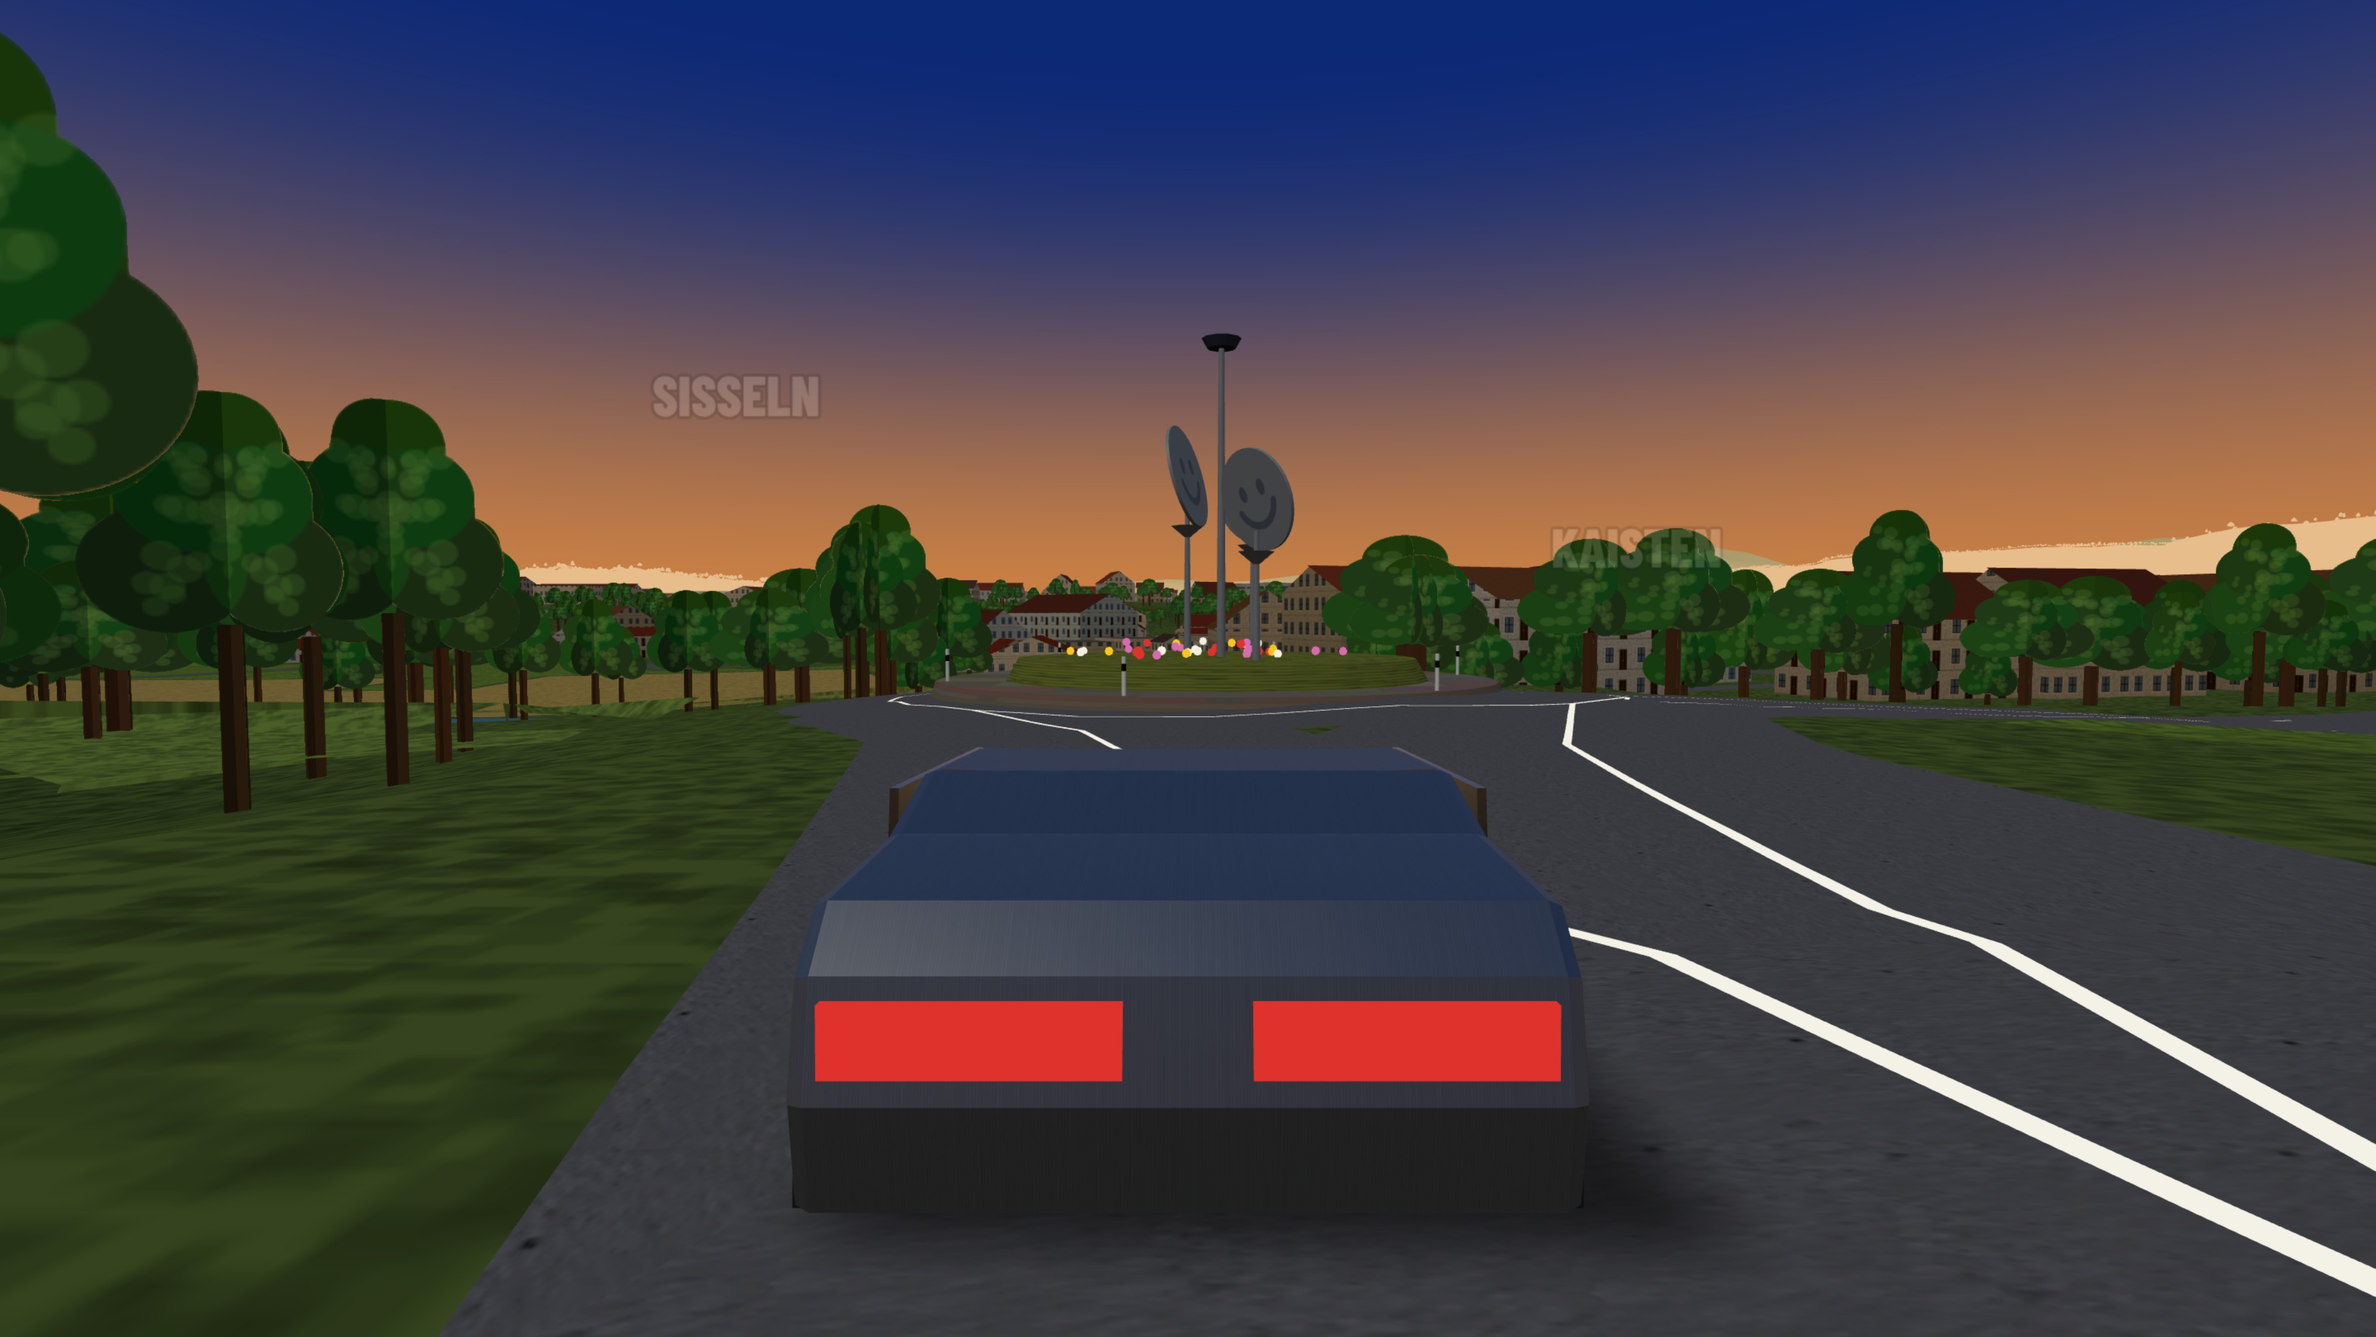
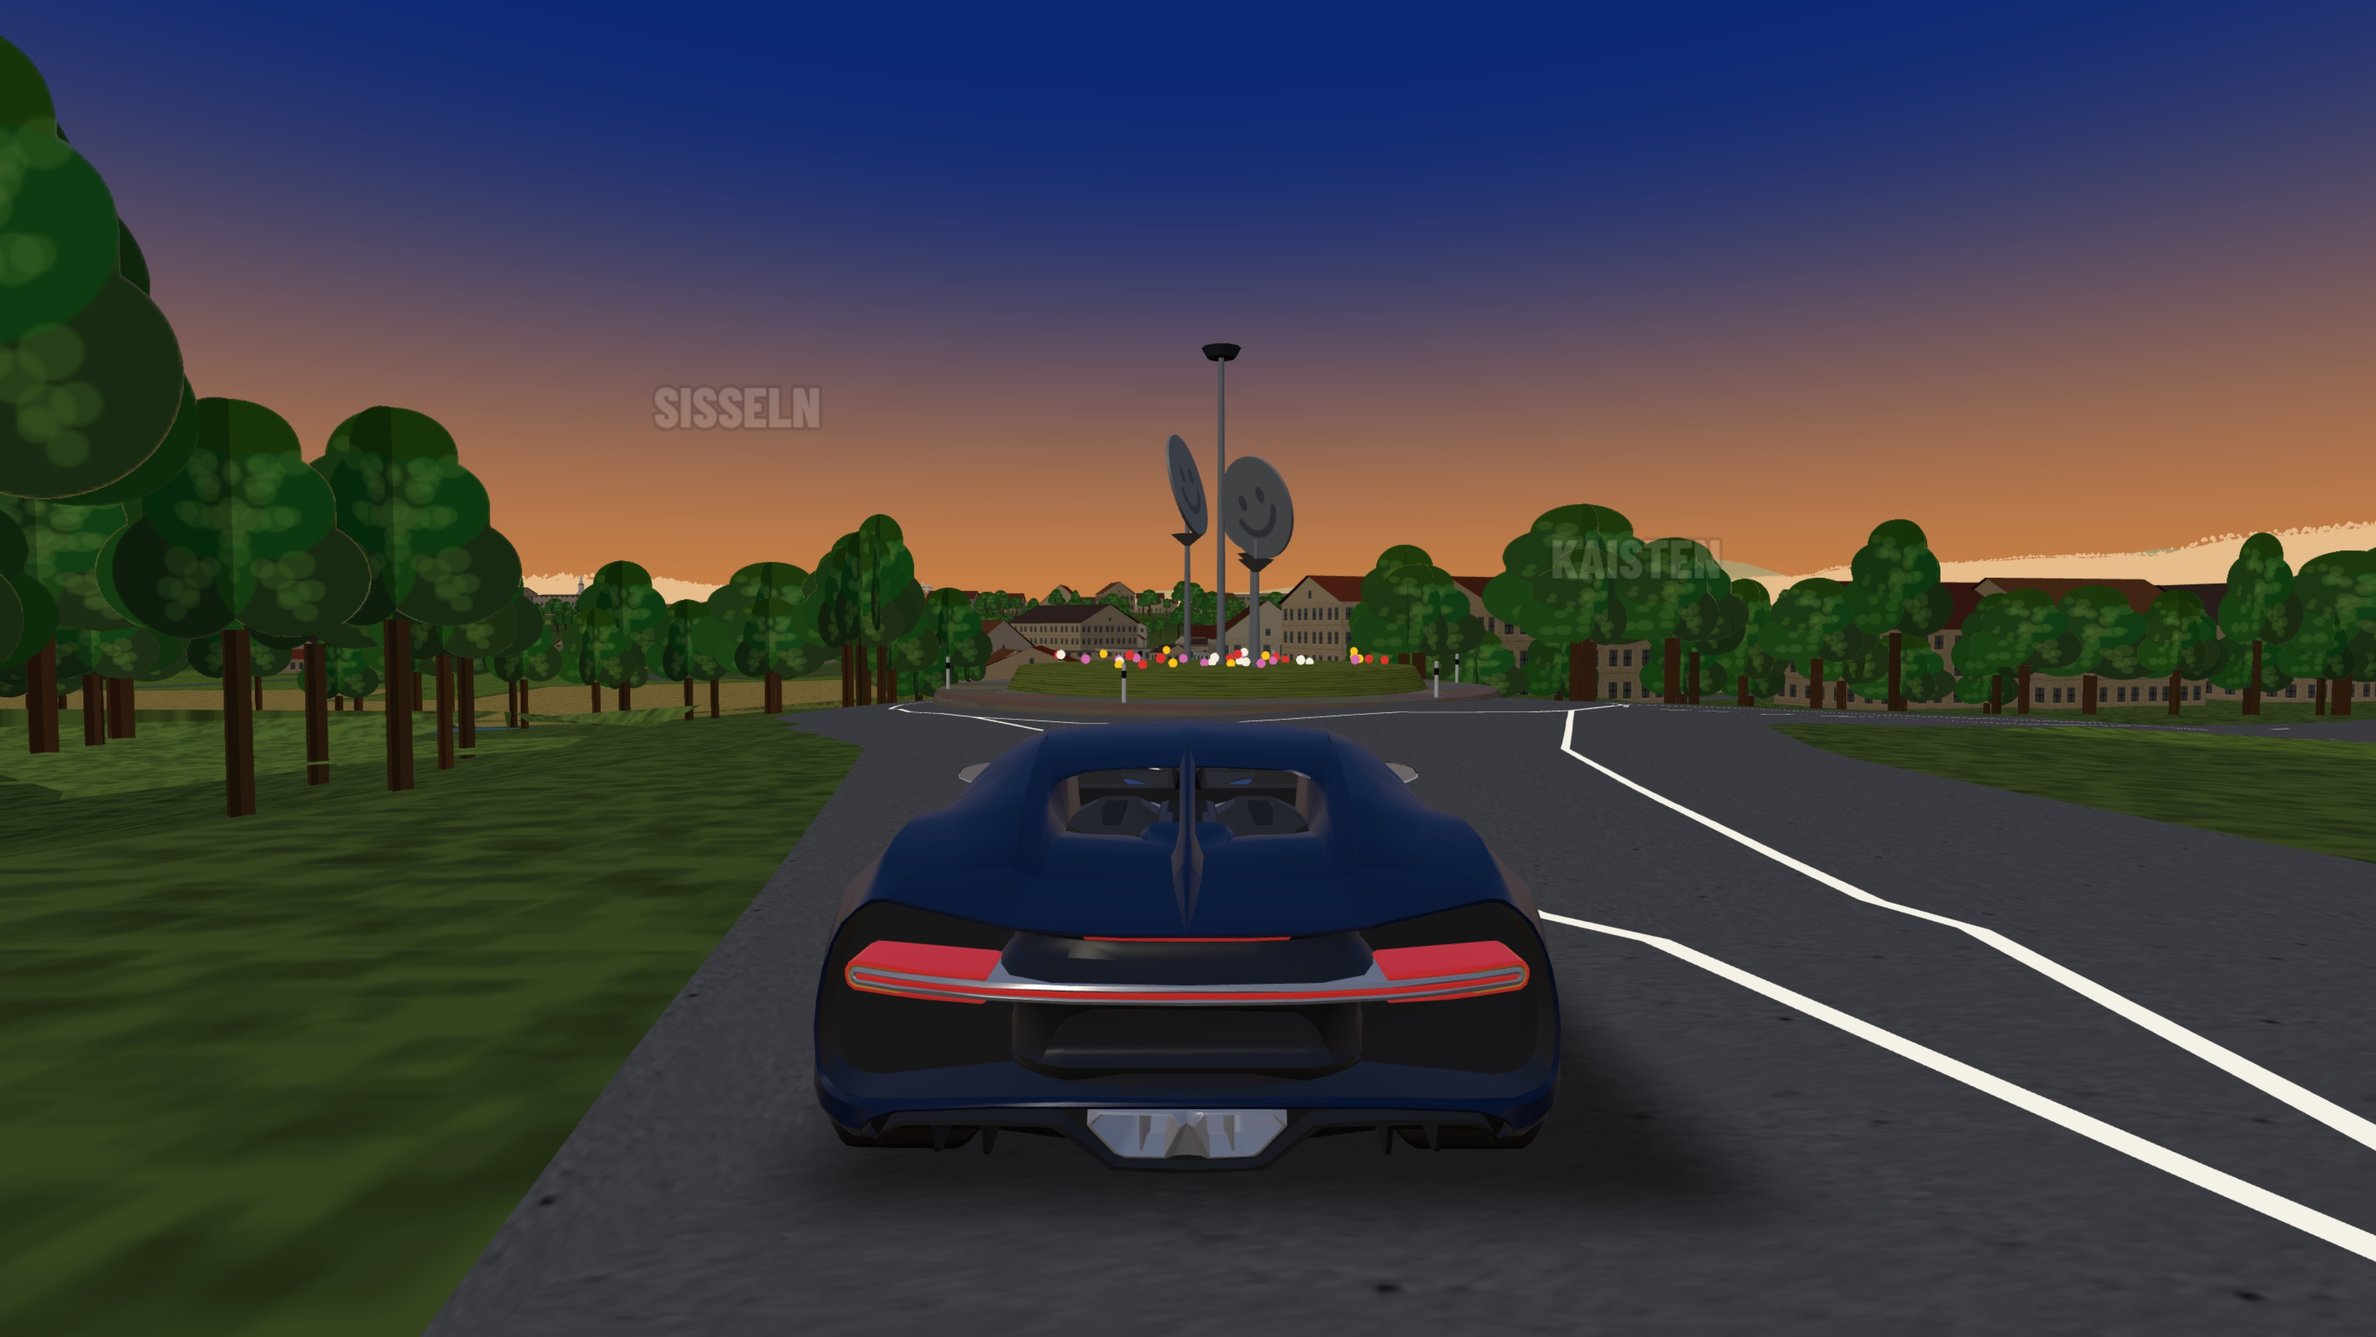
docs(gallery): closer Plattform shots, fields from the air, combine harvester (#1001)
* docs(gallery): closer Plattform shots, fields from the air, combine harvester

The NFZ article focuses on the Plattform: three new shots show it large in
the frame. The fields aerial and the harvester show the farmland data the
article mentions. The Fridolinsmünster shot goes (not a proper landmark yet),
and the scenes use modern cars instead of the DeLorean and the Mini.

Claude-Session: https://claude.ai/code/session_01CCZvVD3W1FFQ2k8dsQQTey

* docs(gallery): green combine harvester, closer

Motifs may set a paint (carselect.js PAINTS); the game exposes
window.__mm.setPaint for the shot script.

Claude-Session: https://claude.ai/code/session_01CCZvVD3W1FFQ2k8dsQQTey

---------

diff --git a/presse/index.html b/presse/index.html
@@ -43,14 +43,19 @@ dd{margin:0}
 
 <h2>Plattform Sisslerfeld</h2>
 <div class="grid">
+<figure><a href="../docs/gallery/plattform-nah-3840.jpg" download><img src="../docs/gallery/plattform-nah-1920.jpg" alt="Plattform Sisslerfeld aus der Nähe" loading="lazy"></a><figcaption>Plattform Sisslerfeld aus der Nähe<br><a href="../docs/gallery/plattform-nah-3840.jpg" download>Herunterladen (3840&times;2160)</a></figcaption></figure>
+<figure><a href="../docs/gallery/plattform-treppe-3840.jpg" download><img src="../docs/gallery/plattform-treppe-1920.jpg" alt="Plattform Sisslerfeld, Treppe und Aussichtsdeck" loading="lazy"></a><figcaption>Plattform Sisslerfeld, Treppe und Aussichtsdeck<br><a href="../docs/gallery/plattform-treppe-3840.jpg" download>Herunterladen (3840&times;2160)</a></figcaption></figure>
+<figure><a href="../docs/gallery/plattform-kombi-3840.jpg" download><img src="../docs/gallery/plattform-kombi-1920.jpg" alt="Plattform Sisslerfeld mit dem Kombi" loading="lazy"></a><figcaption>Plattform Sisslerfeld mit dem Kombi<br><a href="../docs/gallery/plattform-kombi-3840.jpg" download>Herunterladen (3840&times;2160)</a></figcaption></figure>
 <figure><a href="../docs/gallery/plattform-luftbild-3840.jpg" download><img src="../docs/gallery/plattform-luftbild-1920.jpg" alt="Plattform Sisslerfeld von oben" loading="lazy"></a><figcaption>Plattform Sisslerfeld von oben<br><a href="../docs/gallery/plattform-luftbild-3840.jpg" download>Herunterladen (3840&times;2160)</a></figcaption></figure>
 <figure><a href="../docs/gallery/plattform-auto-3840.jpg" download><img src="../docs/gallery/plattform-auto-1920.jpg" alt="Plattform Sisslerfeld mit dem Postauto" loading="lazy"></a><figcaption>Plattform Sisslerfeld mit dem Postauto<br><a href="../docs/gallery/plattform-auto-3840.jpg" download>Herunterladen (3840&times;2160)</a></figcaption></figure>
 <figure><a href="../docs/gallery/plattform-aussicht-3840.jpg" download><img src="../docs/gallery/plattform-aussicht-1920.jpg" alt="Aussicht von der Plattform Sisslerfeld zur DSM" loading="lazy"></a><figcaption>Aussicht von der Plattform Sisslerfeld zur DSM<br><a href="../docs/gallery/plattform-aussicht-3840.jpg" download>Herunterladen (3840&times;2160)</a></figcaption></figure>
 <figure><a href="../docs/gallery/plattform-dsm-3840.jpg" download><img src="../docs/gallery/plattform-dsm-1920.jpg" alt="Plattform Sisslerfeld, dahinter der DSM-Kamin" loading="lazy"></a><figcaption>Plattform Sisslerfeld, dahinter der DSM-Kamin<br><a href="../docs/gallery/plattform-dsm-3840.jpg" download>Herunterladen (3840&times;2160)</a></figcaption></figure>
+<figure><a href="../docs/gallery/maehdrescher-feld-3840.jpg" download><img src="../docs/gallery/maehdrescher-feld-1920.jpg" alt="Mähdrescher auf dem Acker bei der Plattform" loading="lazy"></a><figcaption>Mähdrescher auf dem Acker bei der Plattform<br><a href="../docs/gallery/maehdrescher-feld-3840.jpg" download>Herunterladen (3840&times;2160)</a></figcaption></figure>
 </div>
 
 <h2>Weitere Bilder</h2>
 <div class="grid">
+<figure><a href="../docs/gallery/felder-luftbild-3840.jpg" download><img src="../docs/gallery/felder-luftbild-1920.jpg" alt="Die Felder des Sisslerfelds aus der Luft" loading="lazy"></a><figcaption>Die Felder des Sisslerfelds aus der Luft<br><a href="../docs/gallery/felder-luftbild-3840.jpg" download>Herunterladen (3840&times;2160)</a></figcaption></figure>
 <figure><a href="../docs/gallery/holzbruecke-aussen-3840.jpg" download><img src="../docs/gallery/holzbruecke-aussen-1920.jpg" alt="Holzbrücke Bad Säckingen über den Rhein" loading="lazy"></a><figcaption>Holzbrücke Bad Säckingen über den Rhein<br><a href="../docs/gallery/holzbruecke-aussen-3840.jpg" download>Herunterladen (3840&times;2160)</a></figcaption></figure>
 <figure><a href="../docs/gallery/holzbruecke-nah-3840.jpg" download><img src="../docs/gallery/holzbruecke-nah-1920.jpg" alt="Holzbrücke aus der Nähe, der Länge nach" loading="lazy"></a><figcaption>Holzbrücke aus der Nähe, der Länge nach<br><a href="../docs/gallery/holzbruecke-nah-3840.jpg" download>Herunterladen (3840&times;2160)</a></figcaption></figure>
 <figure><a href="../docs/gallery/dsm-sisseln-3840.jpg" download><img src="../docs/gallery/dsm-sisseln-1920.jpg" alt="DSM Sisseln und der Kamin" loading="lazy"></a><figcaption>DSM Sisseln und der Kamin<br><a href="../docs/gallery/dsm-sisseln-3840.jpg" download>Herunterladen (3840&times;2160)</a></figcaption></figure>
@@ -59,7 +64,6 @@ dd{margin:0}
 <figure><a href="../docs/gallery/dampflok-sisseln-3840.jpg" download><img src="../docs/gallery/dampflok-sisseln-1920.jpg" alt="Dampflok auf den Schienen beim Bahnhof Sisseln" loading="lazy"></a><figcaption>Dampflok auf den Schienen beim Bahnhof Sisseln<br><a href="../docs/gallery/dampflok-sisseln-3840.jpg" download>Herunterladen (3840&times;2160)</a></figcaption></figure>
 <figure><a href="../docs/gallery/dorfstrasse-hausnummern-3840.jpg" download><img src="../docs/gallery/dorfstrasse-hausnummern-1920.jpg" alt="Hinterdorfstrasse Sisseln mit Hausnummern-Schildern" loading="lazy"></a><figcaption>Hinterdorfstrasse Sisseln mit Hausnummern-Schildern<br><a href="../docs/gallery/dorfstrasse-hausnummern-3840.jpg" download>Herunterladen (3840&times;2160)</a></figcaption></figure>
 <figure><a href="../docs/gallery/smile-kreisel-3840.jpg" download><img src="../docs/gallery/smile-kreisel-1920.jpg" alt="Der Smile-Kreisel" loading="lazy"></a><figcaption>Der Smile-Kreisel<br><a href="../docs/gallery/smile-kreisel-3840.jpg" download>Herunterladen (3840&times;2160)</a></figcaption></figure>
-<figure><a href="../docs/gallery/muenster-stein-3840.jpg" download><img src="../docs/gallery/muenster-stein-1920.jpg" alt="Fridolinsmünster" loading="lazy"></a><figcaption>Fridolinsmünster<br><a href="../docs/gallery/muenster-stein-3840.jpg" download>Herunterladen (3840&times;2160)</a></figcaption></figure>
 </div>
 
 <h2>Bildnachweis</h2>

diff --git a/index.html b/index.html
@@ -5561,6 +5561,7 @@ window.__mm.genericBridges = () => OSM_BRIDGES.filter(b => b.kind === 'generic' 
 // vehicle table (#5): tests activate a modified copy of compact and watch the game change
 window.__mm.vehicles = () => structuredClone(VEHICLES);
 window.__mm.loadVehicle = (id) => loadVehicleModel(id);   // #236: resolves true when the glTF car is ready
+window.__mm.setPaint = (id) => applyPaint(id);   // gallery shots (scripts/shots.py): a motif's own paint
 window.__mm.gltfVehicle = (id = 'hatchback') => { const e = GLTF_CARS[id]; return { state: e?.state ?? 'idle', tris: Math.round(e?.tris ?? 0), materials: (e?.mats?.all ?? []).map(m => m.name), wheels: car.userData.wheels?.length ?? 0, paintColor: e?.mats?.paint ? '#' + e.mats.paint.color.getHexString() : null, lamps: { head: e?.mats?.head.length ?? 0, tail: e?.mats?.tail.length ?? 0, headLevel: e?.mats?.head[0]?.emissiveIntensity ?? null, tailLevel: e?.mats?.tail[0]?.emissiveIntensity ?? null } }; };
 window.__mm.vehicle = () => structuredClone(VEH);
 window.__mm.carSize = () => ({ ...CAR_SIZE });   // #69: body box in world metres, measured at build time (measureCar)

diff --git a/scripts/shots.py b/scripts/shots.py
@@ -36,13 +36,14 @@ FOOT_AGL = (1.7, 150)      # WALKER.eye .. WALKER.hoverMaxAgl
 FOOT_PITCH = (-80, 80)     # WALKER.pitchMax is 1.4 rad
 STARTS = ("trial", "cruise")   # optional `start`: cruise has no checkpoint pillars and no finish in the frame (default trial)
 STYLES = ("original", "smooth")
-VEHICLES = ("compact", "delorean", "mini", "bus")
+VEHICLES = ("compact", "delorean", "mini", "bus", "estate", "coupe", "hyper", "harvester")
 TIMES = ("day",)        # the game has no time of day (spec A3)
 WEATHERS = ("clear",)   # nor weather
-ENUMS = {"mode": MODES, "camera": CAMERAS, "style": STYLES, "vehicle": VEHICLES, "time": TIMES, "weather": WEATHERS, "start": STARTS}
+PAINTS = ("navy", "sunflower", "signal", "swiss", "rhine", "ice", "meadow", "cream", "charcoal", "plum", "flamingo", "racing", "silver")   # optional `paint` (carselect.js PAINTS)
+ENUMS = {"paint": PAINTS, "mode": MODES, "camera": CAMERAS, "style": STYLES, "vehicle": VEHICLES, "time": TIMES, "weather": WEATHERS, "start": STARTS}
 ID_RE = re.compile(r"[a-z0-9]+(-[a-z0-9]+)*")
 NEAR_MAX_M = 600
-COUNT_RANGE = (8, 14)
+COUNT_RANGE = (8, 18)
 
 
 def _is_point(p) -> bool:
@@ -225,7 +226,9 @@ def start_game(page, base_url: str, shot: dict, args) -> None:
 def stage(page, shot: dict) -> None:
     """Style, vehicle, placement, motion: everything the picture shows, before the clean-up and the camera wait."""
     page.evaluate("(k) => window.__mm.setStyle(k)", shot["style"])
-    page.evaluate("(id) => { const v = window.__mm.vehicles()[id]; if (!v) throw new Error('unknown vehicle ' + id); window.__mm.setVehicle(v); }", shot["vehicle"])
+    page.evaluate("async (id) => { const v = window.__mm.vehicles()[id]; if (!v) throw new Error('unknown vehicle ' + id); if (v.gltf) await window.__mm.loadVehicle(id); window.__mm.setVehicle(v); }", shot["vehicle"])   # glTF cars: wait for the model, not the stand-in
+    if "paint" in shot:
+        page.evaluate("(id) => window.__mm.setPaint(id)", shot["paint"])
     page.evaluate("([x, z, th]) => window.__mm.place(x, z, th)", [shot["at"]["x"], shot["at"]["z"], heading(shot["at"], shot["look_at"])])
     if shot["mode"] == "heli":
         page.keyboard.press("KeyF")

diff --git a/tests/test_shots.py b/tests/test_shots.py
@@ -51,8 +51,8 @@ def test_validate_shots_checks_the_landmark_distance_and_a_distinct_heading_targ
 def test_validate_shots_needs_climb_seconds_for_the_heli_and_a_count_in_range():
     assert any("climb_s" in e for e in shots.validate_shots([shot(mode="heli")], REGIONS, LANDMARKS, min_count=1))
     assert shots.validate_shots([shot(mode="heli", climb_s=3)], REGIONS, LANDMARKS, min_count=1) == []
-    assert any("8-14" in e for e in shots.validate_shots([shot()], REGIONS, LANDMARKS))
-    assert not any("8-14" in e for e in shots.validate_shots([shot(id=f"m{i}") for i in range(14)], REGIONS, LANDMARKS))
+    assert any("8-18" in e for e in shots.validate_shots([shot()], REGIONS, LANDMARKS))
+    assert not any("8-18" in e for e in shots.validate_shots([shot(id=f"m{i}") for i in range(18)], REGIONS, LANDMARKS))
 
 
 def test_heading_points_from_at_to_look_at():

diff --git a/README.md b/README.md
@@ -26,6 +26,11 @@ Dedicated to my daughter.
   <a href="docs/gallery/plattform-dsm-3840.jpg"><img src="docs/gallery/plattform-dsm-1920.jpg" width="32%" alt="Rhyflitzer – Map Madness: Plattform Sisslerfeld, the DSM chimney behind"></a>
   <a href="docs/gallery/plattform-luftbild-3840.jpg"><img src="docs/gallery/plattform-luftbild-1920.jpg" width="32%" alt="Rhyflitzer – Map Madness: Plattform Sisslerfeld from above"></a>
   <a href="docs/gallery/plattform-aussicht-3840.jpg"><img src="docs/gallery/plattform-aussicht-1920.jpg" width="32%" alt="Rhyflitzer – Map Madness: View from the Plattform Sisslerfeld to DSM"></a>
+  <a href="docs/gallery/plattform-nah-3840.jpg"><img src="docs/gallery/plattform-nah-1920.jpg" width="32%" alt="Rhyflitzer – Map Madness: Plattform Sisslerfeld up close"></a>
+  <a href="docs/gallery/plattform-treppe-3840.jpg"><img src="docs/gallery/plattform-treppe-1920.jpg" width="32%" alt="Rhyflitzer – Map Madness: Plattform Sisslerfeld, stair and deck"></a>
+  <a href="docs/gallery/plattform-kombi-3840.jpg"><img src="docs/gallery/plattform-kombi-1920.jpg" width="32%" alt="Rhyflitzer – Map Madness: Plattform Sisslerfeld with the estate"></a>
+  <a href="docs/gallery/felder-luftbild-3840.jpg"><img src="docs/gallery/felder-luftbild-1920.jpg" width="32%" alt="Rhyflitzer – Map Madness: The fields of the Sisslerfeld from the air"></a>
+  <a href="docs/gallery/maehdrescher-feld-3840.jpg"><img src="docs/gallery/maehdrescher-feld-1920.jpg" width="32%" alt="Rhyflitzer – Map Madness: Combine harvester in a field by the Plattform"></a>
   <a href="docs/gallery/holzbruecke-aussen-3840.jpg"><img src="docs/gallery/holzbruecke-aussen-1920.jpg" width="32%" alt="Rhyflitzer – Map Madness: Holzbrücke Bad Säckingen across the Rhine"></a>
   <a href="docs/gallery/holzbruecke-nah-3840.jpg"><img src="docs/gallery/holzbruecke-nah-1920.jpg" width="32%" alt="Rhyflitzer – Map Madness: Holzbrücke, close, along its length"></a>
   <a href="docs/gallery/dsm-sisseln-3840.jpg"><img src="docs/gallery/dsm-sisseln-1920.jpg" width="32%" alt="Rhyflitzer – Map Madness: DSM Sisseln and its chimney"></a>
@@ -34,7 +39,6 @@ Dedicated to my daughter.
   <a href="docs/gallery/dampflok-sisseln-3840.jpg"><img src="docs/gallery/dampflok-sisseln-1920.jpg" width="32%" alt="Rhyflitzer – Map Madness: Steam loco on the tracks at Bahnhof Sisseln"></a>
   <a href="docs/gallery/dorfstrasse-hausnummern-3840.jpg"><img src="docs/gallery/dorfstrasse-hausnummern-1920.jpg" width="32%" alt="Rhyflitzer – Map Madness: Hinterdorfstrasse Sisseln with house-number plates"></a>
   <a href="docs/gallery/smile-kreisel-3840.jpg"><img src="docs/gallery/smile-kreisel-1920.jpg" width="32%" alt="Rhyflitzer – Map Madness: The Smile roundabout"></a>
-  <a href="docs/gallery/muenster-stein-3840.jpg"><img src="docs/gallery/muenster-stein-1920.jpg" width="32%" alt="Rhyflitzer – Map Madness: Fridolinsmünster"></a>
 </p>
 <!-- shots:end -->
 

diff --git a/CHANGELOG.md b/CHANGELOG.md
@@ -10,6 +10,7 @@ Every entry carries the date and time it went live, in Swiss local time (Europe/
 
 ### Added
 
+- `2026-11-15 20:28` Mehr **Pressebilder**: die Plattform Sisslerfeld aus der Nähe, ein **Luftbild der Felder** im Sisslerfeld und ein **Mähdrescher** auf dem Acker; die Spielszenen zeigen modernere Autos.
 - `2026-11-15 15:09` **Pressematerial** unter **rhyflitzer.ch/presse**: Bilder der Plattform Sisslerfeld und weitere Spielszenen in Druckqualität zum Herunterladen, die YouTube-Playlist und die wichtigsten Angaben zum Spiel.
 - `2026-11-15 09:54` Im Mehrspieler ist schon ein **lustiger Name** eingetragen; wer einen eigenen tippt, behält ihn.
 - `2026-11-14 21:28` Neu: **Ausliefern**. Auf dem Startbildschirm startet **Ausliefern** eine Schicht mit fünf Bestellungen. Ab der Pizzeria führt das Navi zu einer echten Hausadresse, die Zeit läuft, und wer rasant und sorgsam fährt, bekommt mehr **Trinkgeld**: Mit jedem Crash leidet die Pizza, bei 0 % ist sie hin. Der beste Wert wird gespeichert. Während einer Lieferung gehen <kbd>J</kbd>, <kbd>F</kbd> und <kbd>O</kbd> nicht, und <kbd>R</kbd> kostet 15 Sekunden.
